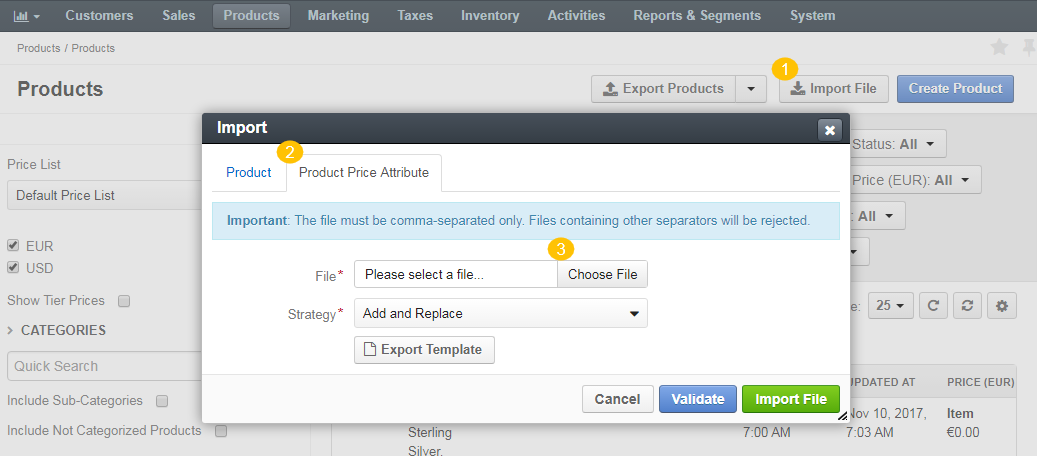
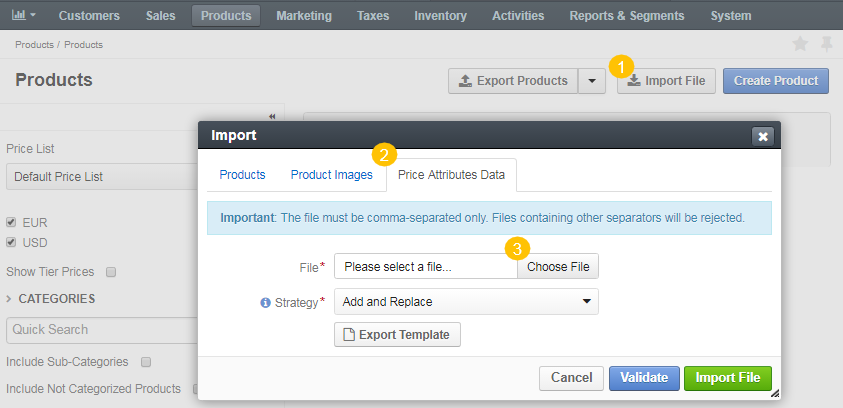
DOC-349: Import Images for Products (#15252)

diff --git a/user_guide/getting_started/import_export/import_products.rst b/user_guide/getting_started/import_export/import_products.rst
@@ -26,10 +26,10 @@ Importing Products
    :start-after: begin 1
    :end-before: Related Topics
 
-Importing Product Price Attribute Data
-~~~~~~~~~~~~~~~~~~~~~~~~~~~~~~~~~~~~~~
+Importing Product Price Attributes Data
+~~~~~~~~~~~~~~~~~~~~~~~~~~~~~~~~~~~~~~~
 
-**Example of a product price attribute data import template**
+**Example of a product price attributes data import template**
 
 .. container:: scroll-table
 
@@ -45,7 +45,7 @@ To import a bulk of product price attributes:
 
 2. Click **Import File** on the top right.
 
-3. In the **Import** dialog, select the **Product Price Attribute** tab.
+3. In the **Import** dialog, select the **Price Attributes Data** tab.
 
 4. Click **Choose File** and select the .csv file you prepared.
 
@@ -88,6 +88,46 @@ Follow the on-screen guidance for any additional actions. For example, for the i
 .. raw:: HTML
 
    <iframe width="560" height="315" src="https://www.youtube.com/embed/shpqpFao6bA" frameborder="0" allowfullscreen></iframe>
+
+
+Importing Product Images
+~~~~~~~~~~~~~~~~~~~~~~~~
+
+**Example of a product images import template**
+
+.. container:: scroll-table
+
+   .. csv-table::
+      :class: large-table
+      :header: "SKU","Name","Main","Listing","Additional"
+
+      "sku_001","001.jpg","1","0","1"
+
+To import a bulk of product images:
+
+1. In the main menu, navigate to **Products > Products**. The product list opens.
+
+2. Click **Import File** on the top right.
+
+3. In the **Import** dialog, select the **Product Images** tab.
+
+4. Click **Choose File** and select the .csv file you prepared.
+
+   .. image:: /user_guide/img/getting_started/export_import/import_product_images.png
+
+5. Click **Export Template** to download a sample .csv file with the necessary headers.
+
+6. **Prepare data for import**: Based on the downloaded file, create your bulk information in the .csv format.
+
+.. important:: Make sure to upload the image files for the related products to the appropriate location at the "{PROJECT}/app/import_export/product_images" path at the server where the Oro application is running. Then, fill the table with the name of the image file, the SKU name of the product, and a place for the image to be displayed, where **1** is **display** and **0** is **do not display**.
+
+Once your file is ready, click **Choose File** and select the prepared comma-separated values (.csv) file.
+
+7. **Validate import results**: Click **Validate** to check your import results. If there are any *Records with errors*, fix them in the .csv file before starting the import.
+
+8. **Launch import:** After successful validation, click **Import File**.
+
+9. Click **Cancel** to decline the import.
 
 .. finish
 
